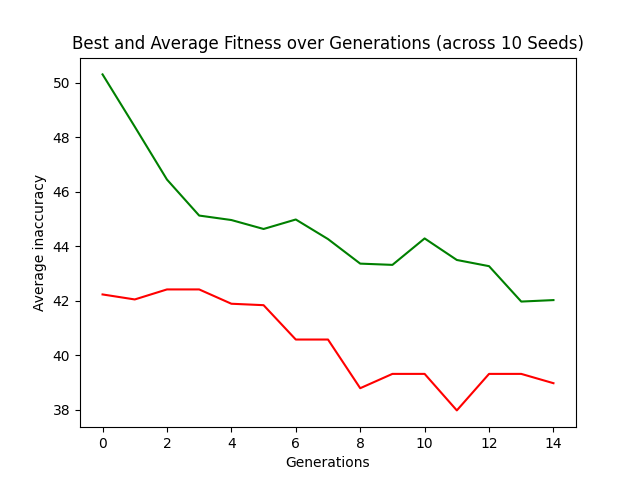
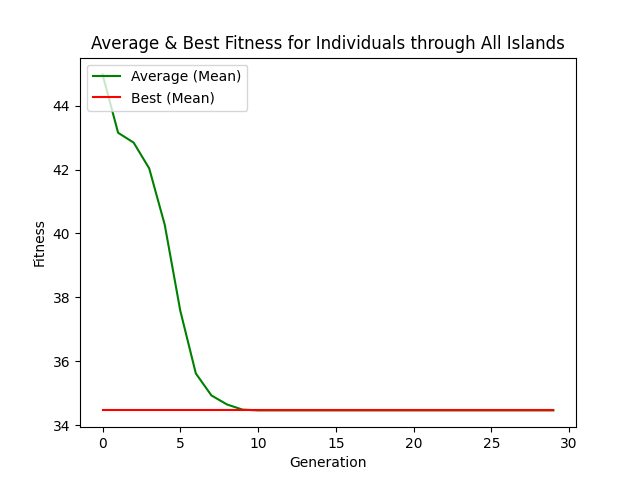
updated main.py

diff --git a/main.py b/main.py
@@ -49,8 +49,8 @@ pset.renameArguments(
 )
 
 # Create Individuals
-creator.create("FitnessMin", base.Fitness, weights=(-1.0,))
-creator.create("Individual", gp.PrimitiveTree, fitness=creator.FitnessMin)
+creator.create("FitnessMax", base.Fitness, weights=(1.0,))
+creator.create("Individual", gp.PrimitiveTree, fitness=creator.FitnessMax)
 
 toolbox.register("expr", gp.genHalfAndHalf, pset=pset, min_=3, max_=7)
 toolbox.register("individual", tools.initIterate, creator.Individual, toolbox.expr)
@@ -65,13 +65,13 @@ toolbox.register("select", tools.selTournament, tournsize=T_SIZE)
 toolbox.register("mate", gp.cxOnePoint)
 toolbox.register("expr_mut", gp.genFull, min_=5, max_=12)
 toolbox.register("mutate", gp.mutUniform, expr=toolbox.expr_mut, pset=pset)
-toolbox.decorate("mate", gp.staticLimit(key=operator.attrgetter("height"), max_value=17))
-toolbox.decorate("mutate", gp.staticLimit(key=operator.attrgetter("height"), max_value=17))
+toolbox.decorate("mate", gp.staticLimit(key=operator.attrgetter("height"), max_value=16))
+toolbox.decorate("mutate", gp.staticLimit(key=operator.attrgetter("height"), max_value=16))
 
 def k_ring_swap(islands):
   amount = len(islands)
 
-  for i in range(POP_SIZE//NUM_ISLANDS):
+  for i in range(POP_SIZE // len(islands)):
     ind = random.randint(0, POP_SIZE-1)
 
     islands[i%amount][ind], islands[(i+1)%amount][ind] = islands[(i+1)%amount][ind], islands[i%amount][ind]
@@ -81,108 +81,126 @@ def safe_log(x):
     return math.log(x)
   return 0
 
-if __name__ == "__main__":
-  stats = tools.Statistics(key=operator.attrgetter("fitness.values"))
-  stats.register("avg", numpy.mean)
-  stats.register("min", numpy.min)
-  stats.register("max", numpy.max)
 
-  NUM_ISLANDS = 12
+stats = tools.Statistics(key=operator.attrgetter("fitness.values"))
+stats.register("avg", numpy.mean)
+stats.register("min", numpy.min)
+stats.register("max", numpy.max)
 
-  # for i in range(NUM_ISLANDS):
-  #   if not os.path.exists(f"stats/island{i}"):
-  #     os.mkdir(f"stats/island{i}")
+NUM_ISLANDS = 6
+islands = [toolbox.population(n=POP_SIZE) for _ in range(NUM_ISLANDS)]
 
-  # In the nested list: the first list is for averages, the seconds is for bests.
-  stats = [[[ [] for i in range(MAX_GENERATIONS) ], [ [] for i in range(MAX_GENERATIONS) ]] for i in range(NUM_ISLANDS)]
+RUNS = 10
 
-  islands = [toolbox.population(n=POP_SIZE) for _ in range(NUM_ISLANDS)]
+averages = [[ 0.0 for _ in range(MAX_GENERATIONS) ] for _ in range(NUM_ISLANDS)]
+bests    = [[ 0.0 for _ in range(MAX_GENERATIONS) ] for _ in range(NUM_ISLANDS)]
 
-  TIMES = 10
-  # We do this process TIMES times.
+for run in range(RUNS):
+  random.seed(run)
 
-  RUNS = 10
-  for i in range(RUNS):
-    random.seed(i+1)
+  for island_num, pop in enumerate(islands):
+    # The evaluation function is applied to all members of the population.  
+    fitnesses = toolbox.map(toolbox.evaluate, pop)
+    # The fitness is assigned to each individual.
+    for ind, fit in zip(pop, fitnesses):
+      ind.fitness.values = fit
 
-    for j in range(TIMES):
-      # Each iteration deals with one island at a time.
-      for islandNo, pop in enumerate(islands):
-        # The evaluation function is applied to all members of the population.  
-        fitnesses = toolbox.map(toolbox.evaluate, pop)
-        # The fitness is assigned to each individual.
-        for ind, fit in zip(pop, fitnesses):
-          ind.fitness.values = fit
+    # Number of generations.
+    for g in range(MAX_GENERATIONS):
+      # k individuals are selected from the population.
+      pop = toolbox.select(pop, k=len(pop))
 
-        # Number of generations.
-        for g in range(MAX_GENERATIONS):
-          # k individuals are selected from the population.
-          pop = toolbox.select(pop, k=len(pop))
+      # The existing population is duplicated.
+      offspring = [toolbox.clone(ind) for ind in pop]
 
-          # The existing population is duplicated.
-          offspring = [toolbox.clone(ind) for ind in pop]
+      # Crossover is applied to "a portion of consecutive individuals."
+      for child1, child2 in zip(offspring[::2], offspring[1::2]):
+        if random.random() < P_CROSSOVER:
+          toolbox.mate(child1, child2)
+          # Their existing fitnesses (from being cloned) are deleted.
+          del child1.fitness.values, child2.fitness.values
 
-          # Crossover is applied to "a portion of consecutive individuals."
-          for child1, child2 in zip(offspring[::2], offspring[1::2]):
-            if random.random() < P_CROSSOVER:
-              toolbox.mate(child1, child2)
-              # Their existing fitnesses (from being cloned) are deleted.
-              del child1.fitness.values, child2.fitness.values
+      # A percentage of the newly crossed over offspring is mutated.
+      for mutant in offspring:
+        if random.random() < P_MUTATION:
+          toolbox.mutate(mutant)
+          # Make sure to delete the existing fitness value.
+          del mutant.fitness.values
 
-          # A percentage of the newly crossed over offspring is mutated.
-          for mutant in offspring:
-            if random.random() < P_MUTATION:
-              toolbox.mutate(mutant)
-              # Make sure to delete the existing fitness value.
-              del mutant.fitness.values
+      # Freshly produced individuals are filtered by the validity of their fitness.
+      invalids = [ind for ind in pop if not ind.fitness.valid]
+      # The remaining are given new fitness values.
+      fitnesses = toolbox.map(toolbox.evaluate, invalids)
+      for ind, fit in zip(invalids, fitnesses):
+        ind.fitness.values = fit
 
-          # Freshly produced individuals are filtered by the validity of their fitness.
-          invalids = [ind for ind in pop if not ind.fitness.valid]
-          # The remaining are given new fitness values.
-          fitnesses = toolbox.map(toolbox.evaluate, invalids)
-          for ind, fit in zip(invalids, fitnesses):
-            ind.fitness.values = fit
+      # If the generation count is a multiple of 5: 
+      # Two random islands are selected and a couple of their individuals are traded between each other.
+      if g % 10 == 0:
+        k_ring_swap(islands)
+      
+      # Record the averages.
+      avg = 0
+      for ind in pop:
+        avg += ind.fitness.values[0]
+      avg /= len(pop)
+      averages[island_num][g] += avg
 
-          if j == TIMES-1:
-            # Record statistics for this Island's Population's Generation.
+      # Record the bests.
+      best = 0
+      for ind in pop:
+        fit = ind.fitness.values[0]
+        if fit > best:
+          best = fit
+      bests[island_num][g] += best
 
-            # Averages.
-            stats_for_current_island = stats[islandNo]
-            average = 0
-            for ind in pop:
-              average += ind.fitness.values[0]
-            average /= len(pop)
-            stats_for_current_island[0][g] = safe_log(average)
+for island_num in range(len(averages)):
+  for g in range(len(averages[0])):
+    averages[island_num][g] /= RUNS
+    bests[island_num][g] /= RUNS
 
-            # Bests.
-            best = 0
-            for ind in pop:
-              if ind.fitness.values[0] < best:
-                best = ind.fitness.values[0]
-            stats_for_current_island[1][g] = safe_log(best)
+avgs_to_plot = []
+bests_to_plot = []
 
-          # If the generation count is a multiple of 5: 
-          # Two random islands are selected and a couple of their individuals are traded between each other.
-          if g % 5 == 0:
-            k_ring_swap(islands)
+for g in range(MAX_GENERATIONS):
+  avg = 0
+  best = 0
   
-  for i in range(RUNS):
-    for j in range(len(stats)):
-      for k in range(len(stats[j])):
-        for l in range(len(stats[j][k])):
-            stats[j][k][l] /= RUNS
+  for island_num in range(NUM_ISLANDS):
+    avg += averages[island_num][g]
+    best += bests[island_num][g]
+  
+  avg /= NUM_ISLANDS
+  best /= NUM_ISLANDS
 
-  for i in range(NUM_ISLANDS):
-    plt.clf()
-    plt.plot(stats[i][0], color="green", label="Average (Mean)")
-    plt.plot(stats[i][1], color="red", label="Best (Mean)")
-    plt.legend(loc="upper left")
-    plt.xlabel("Generation")
-    plt.ylabel(f'Fitness)')
-    plt.title(f'Average & Best Fitness for Individuals on Island {i+1}')
-    plt.savefig(f"plot{i+1}.png")
+  avg = 100 - 100*avg/len(TRAINING_DATA)
+  best = 100 - 100*best/len(TRAINING_DATA)
 
-  # Print the best of each island.
-  with open("HOF.txt", "w") as file:
-    for pop in islands:
-      file.write(str(tools.selBest(pop, k=1)[0]) + "\n")
+  avgs_to_plot.append(avg)
+  bests_to_plot.append(best)
+
+
+for i in range(NUM_ISLANDS):
+  plt.clf()
+  plt.plot(avgs_to_plot, color="green", label="Average (Mean)")
+  plt.plot(bests_to_plot, color="red", label="Best (Mean)")
+  plt.legend(loc="upper left")
+  plt.xlabel("Generation")
+  plt.ylabel(f'Fitness')
+  plt.title(f'Average & Best Fitness for Individuals through All Islands')
+  plt.savefig(f"plot.png")
+
+# Print the best of each island.
+with open("HOF.txt", "w") as file:
+  for pop in islands:
+    file.write(str(tools.selBest(pop, k=1)[0]) + "\n")
+    fitness, accuracy = tester(toolbox.compile(expr=tools.selBest(pop, k=1)[0]), test_data=TESTING_DATA)
+    print(
+        "Best individual accuracy: "
+        + str(accuracy)
+        + "\nIt had "
+        + str(fitness)
+        + " hits out of "
+        + str(len(TESTING_DATA))
+        + " data points"
+    )

diff --git a/helpers/rice_reader.py b/helpers/rice_reader.py
@@ -32,3 +32,6 @@ This function scrambles the data input to it.
 def shake_rice(data: List[list]) -> List[list]:
     random.shuffle(data)
     return data
+
+if __name__ == "__main__":
+    print(len(rice_reader("../data/delicious_rice.txt")))

diff --git a/helpers/tester.py b/helpers/tester.py
@@ -21,3 +21,6 @@ def tester(individual: any, test_data: any) -> Tuple[int, float]:
 
     accuracy = hits * 100 / length
     return hits, accuracy
+
+if __name__ == "__main__":
+    pass
